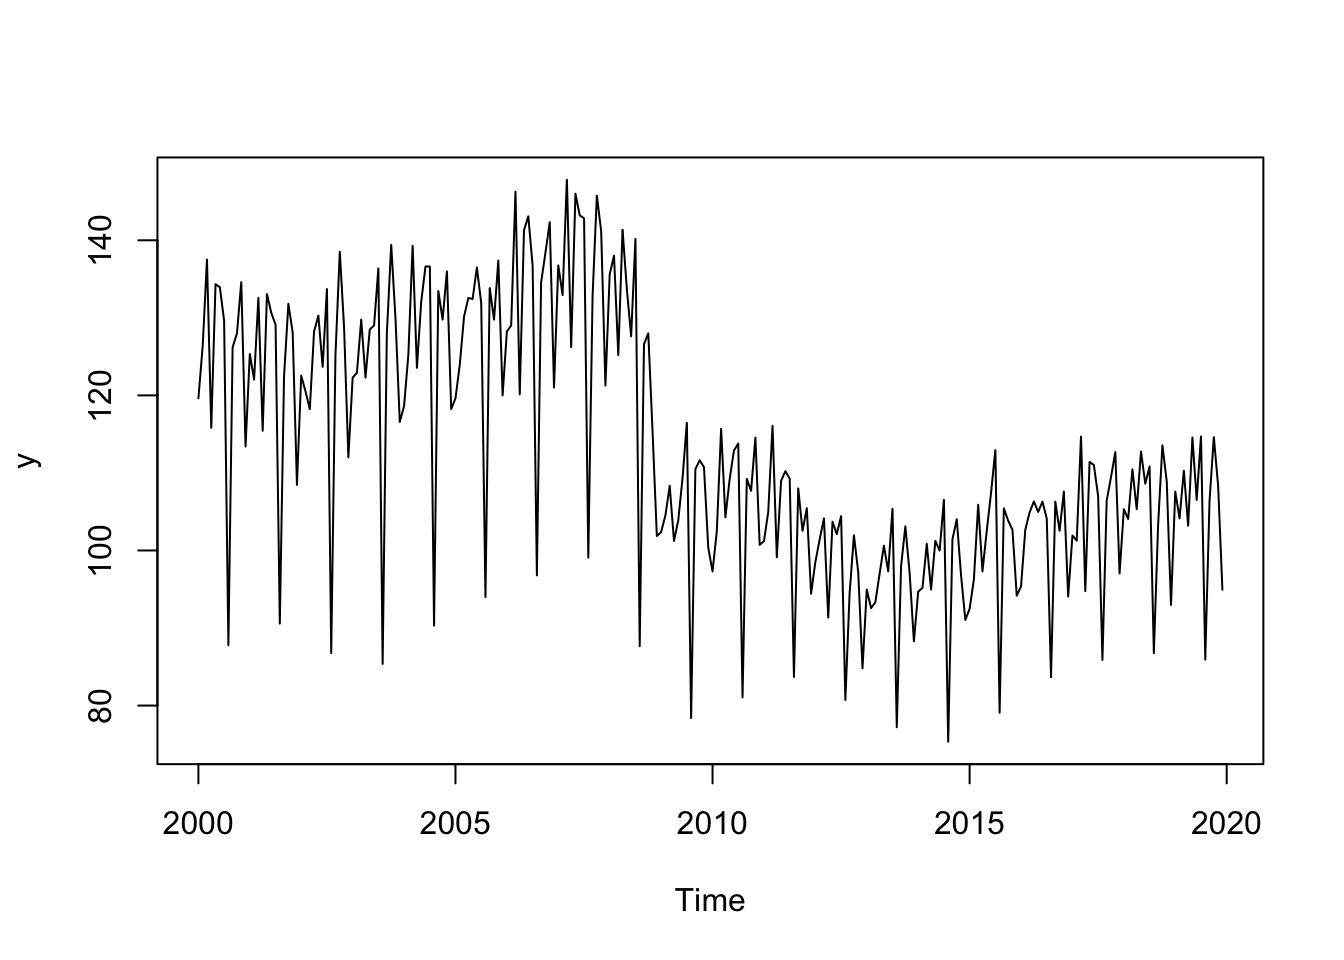
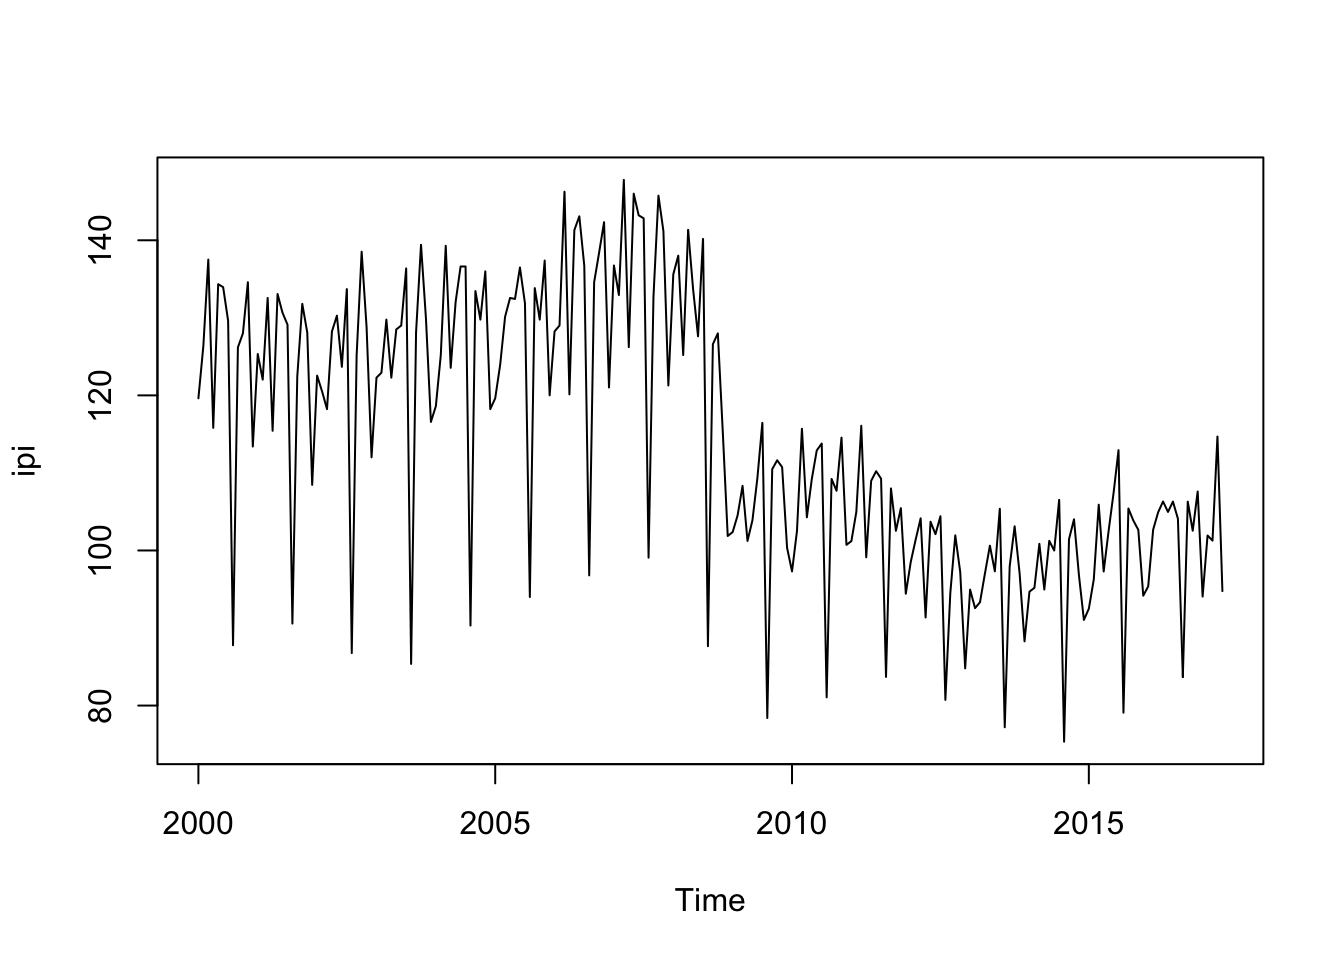
New commit

diff --git a/index.html b/index.html
@@ -291,45 +291,59 @@ $(document).ready(function () {
 </div>
 
 
-<p>Here I am showing some examples run with package <strong>UComp</strong>.</p>
-<p>First, just load the library and some data (monthly Spanish industrial production index) from January 2000 to December 2019.</p>
+<p>Here there are some examples run with package <strong>UComp</strong>, for the automatic modelling of Unobserved Components models <em>a la</em> Harvey (1989). The absolute novelty of this package is that it provides an automatic identification of UC models, though particular models may be estimated, if desired. The package also perform outlier detection, may identify cycles of period longer than one year and allows for models with exogenous inputs.</p>
+<p>The library is composed of just a few functions to perform a comprehensive analysis of time series:</p>
+<ul>
+<li>UC: runs everything</li>
+<li>UCsetup: creates <strong>UComp</strong> objects</li>
+<li>UCmodel: runs UCsetup, estimates/identifies model and produce forecasts</li>
+<li>UCvalidate: runs diagnositics checks and show estimation table</li>
+<li>UCfilter: filters the data and computes states and their covariance matrices</li>
+<li>UCsmooth: as UCfilter, but smoothing the data</li>
+<li>UCdisturb: runs the disturbance smoother</li>
+<li>UCcomponents: estimate components (trend, seasonal, irregular, etc.)</li>
+</ul>
+<p>The inputs to UC, UCsetup and UCmodel are the same and control how the rest of functions work (check the manual and examples below).</p>
+<p>Now, the examples. First, just load the library and some data (monthly Spanish industrial production index) from January 2000 to December 2019. the last year of data is reserved to check forecasting performance.</p>
 <pre class="r"><code>library(UComp)</code></pre>
 <pre><code>## Loading required package: Rcpp</code></pre>
-<pre class="r"><code>load(&quot;ipi.Rdata&quot;)
-plot(y)</code></pre>
+<pre class="r"><code>library(ggplot2)
+load(&quot;ipi.Rdata&quot;)
+ipi = ts(y[1 : 208], start = 2000, frequency = 12)
+plot(ipi)</code></pre>
 <p><img src="index_files/figure-html/unnamed-chunk-1-1.png" width="672" /></p>
-<p>Probably the easiest way to play with <strong>UComp</strong> is by running just function UC, it creates and does all the typical operations of unobserved components modeling with just one function call. For example, the next code show how to plot the estimated components.</p>
-<pre class="r"><code>m = UC(log(y))</code></pre>
+<p>The call could be as simple as the next to estimate the optimal model and plot the components. The output shows the estimated models with their information criteria values and the table with the estimates and some diagnostics tests.</p>
+<pre class="r"><code>m = UC(log(ipi))</code></pre>
 <pre><code>## ------------------------------------------------------------
 ##  Identification started WITHOUT outlier detection
 ## ------------------------------------------------------------
 ##           Model                       AIC      BIC     AICc
 ## ------------------------------------------------------------
-##        none/none/none/arma(0,0):  -0.9232  -0.9087  -0.9232
-##            none/none/equal/none:   1.0874   1.2614   1.0916
-##       none/none/equal/arma(0,0):  -0.8757  -0.6872  -0.8716
-##        none/none/different/none:  -1.2915  -1.0450  -1.2832
-##   none/none/different/arma(0,0):   0.3040   0.5650   0.3165
-##               rw/none/none/none:  -0.9093  -0.8948  -0.9093
-##          rw/none/none/arma(0,0):  -1.5781  -1.5491  -1.5781
-##              rw/none/equal/none:  -2.7012  -2.5127  -2.6971
-##         rw/none/equal/arma(0,0):  -2.8941  -2.6910  -2.8899
-##          rw/none/different/none:  -2.9335  -2.6724  -2.9210
-##     rw/none/different/arma(0,0):  -2.9660  -2.6905  -2.9535
-##              llt/none/none/none:  -0.8541  -0.8106  -0.8541
-##         llt/none/none/arma(0,0):  -1.5105  -1.4525  -1.5105
-##             llt/none/equal/none:  -2.6304  -2.4128  -2.6220
-##        llt/none/equal/arma(0,0):  -2.7279  -2.4958  -2.7195
-##         llt/none/different/none:  -2.8612  -2.5712  -2.8487
-##    llt/none/different/arma(0,0):  -2.8979  -2.5934  -2.8813
-##               dt/none/none/none:  -0.8775  -0.8340  -0.8775
-##          dt/none/none/arma(0,0):  -1.5390  -1.4810  -1.5390
-##              dt/none/equal/none:  -2.6771  -2.4596  -2.6688
-##         dt/none/equal/arma(0,0):  -2.7931  -2.5611  -2.7848
-##          dt/none/different/none:  -2.8835  -2.5934  -2.8710
-##     dt/none/different/arma(0,0):  -2.9496  -2.6450  -2.9329
+##        none/none/none/arma(0,0):  -0.8407  -0.8247  -0.8407
+##            none/none/equal/none:   1.2222   1.4147   1.2270
+##       none/none/equal/arma(0,0):  -0.7102  -0.5016  -0.7054
+##        none/none/different/none:  -1.1573  -0.8845  -1.1429
+##   none/none/different/arma(0,0):   0.4555   0.7444   0.4700
+##               rw/none/none/none:  -0.8572  -0.8412  -0.8572
+##          rw/none/none/arma(0,0):  -1.5203  -1.4882  -1.5203
+##              rw/none/equal/none:  -2.5545  -2.3459  -2.5497
+##         rw/none/equal/arma(0,0):  -2.7475  -2.5229  -2.7379
+##          rw/none/different/none:  -2.7614  -2.4726  -2.7470
+##     rw/none/different/arma(0,0):  -2.7822  -2.4773  -2.7630
+##              llt/none/none/none:  -0.7945  -0.7464  -0.7945
+##         llt/none/none/arma(0,0):  -1.4430  -1.3788  -1.4430
+##             llt/none/equal/none:  -2.4688  -2.2281  -2.4591
+##        llt/none/equal/arma(0,0):  -2.6311  -2.3744  -2.6215
+##         llt/none/different/none:  -2.6807  -2.3598  -2.6615
+##    llt/none/different/arma(0,0):  -2.7040  -2.3670  -2.6847
+##               dt/none/none/none:  -0.8208  -0.7727  -0.8208
+##          dt/none/none/arma(0,0):  -1.4749  -1.4107  -1.4749
+##              dt/none/equal/none:  -2.5232  -2.2825  -2.5136
+##         dt/none/equal/arma(0,0):  -2.6026  -2.3459  -2.5930
+##          dt/none/different/none:  -2.7054  -2.3845  -2.6862
+##     dt/none/different/arma(0,0):  -2.7569  -2.4200  -2.7377
 ## ------------------------------------------------------------
-##   Identification time:    1.80694 seconds
+##   Identification time:    1.87189 seconds
 ## ------------------------------------------------------------
 ## -------------------------------------------------------------
 ##   Concentrated Maximum-Likelihood
@@ -340,34 +354,140 @@ plot(y)</code></pre>
 ##  -------------------------------------------------------------
 ##                       Param          |T|    P-value     |Grad| 
 ##  -------------------------------------------------------------
-##         Level:     1.75e-04       0.1970     0.8440   4.28e-06
-##    Seas(12.0):     6.95e-07       1.8166     0.0706   1.25e-05
-##     Seas(6.0):     1.18e-06       1.7048     0.0896   6.83e-06
-##     Seas(4.0):     1.48e-06       1.6277     0.1050   1.61e-05
-##     Seas(3.0):     4.94e-05       0.5815     0.5615   1.66e-05
-##     Seas(2.4):     1.77e-05       0.8862     0.3764   2.61e-06
-##     Seas(2.0):     5.13e-07       1.8893     0.0601   5.09e-06
-##     Irregular:     3.34e-04*         nan        nan        nan
+##         Level:     2.01e-04          nan        nan   4.13e-05
+##    Seas(12.0):     9.03e-07          nan        nan   2.60e-05
+##     Seas(6.0):     1.56e-06          nan        nan   2.36e-05
+##     Seas(4.0):     1.76e-06          nan        nan   2.64e-05
+##     Seas(3.0):     5.32e-05          nan        nan   3.85e-05
+##     Seas(2.4):     2.14e-05          nan        nan   2.99e-05
+##     Seas(2.0):     6.40e-07          nan        nan   2.21e-05
+##     Irregular:     3.45e-04*         nan        nan        nan
 ##  -------------------------------------------------------------
-##    AIC:      -2.9660   BIC:      -2.6905   AICc:      -2.9535
-##             Log-Likelihood:     374.9221
+##    AIC:      -2.7822   BIC:      -2.4773   AICc:      -2.7630
+##             Log-Likelihood:     308.3510
 ##  -------------------------------------------------------------
 ##     Summary statistics:
 ##  -------------------------------------------------------------
 ##          Missing data:      
-##          Q( 1):       1.3210         Q( 4):       6.7459
-##          Q( 8):      14.2919         Q(12):      22.1627
-##    Bera-Jarque:      40.0486       P-value:       0.0000
-##        H(  78):       0.6898       P-value:       0.1031
+##          Q( 1):       0.8665         Q( 4):       4.9369
+##          Q( 8):      11.7859         Q(12):      17.5830
+##    Bera-Jarque:      24.2265       P-value:       0.0000
+##        H(  66):       0.9878       P-value:       0.9605
 ##    Outliers (&gt;2.7 ES):     4
-##          Q( 1):       2.8033         Q( 4):       7.8037
-##          Q( 8):      10.9585         Q(12):      33.8593
-##    Bera-Jarque:       2.1209       P-value:       0.3463
-##        H(  76):       0.7811       P-value:       0.2838
+##          Q( 1):       1.7276         Q( 4):       6.1233
+##          Q( 8):       9.4265         Q(12):      28.7418
+##    Bera-Jarque:       1.0223       P-value:       0.5998
+##        H(  66):       0.8960       P-value:       0.6569
 ##  -------------------------------------------------------------
 ## </code></pre>
 <pre class="r"><code>plot(m$comp)</code></pre>
 <p><img src="index_files/figure-html/unnamed-chunk-2-1.png" width="672" /></p>
+<p>A different call, more complex, would be as follows (just one model is estimated, the forecasting horizon is fixed at 24 months, verbose output is avoided, see the full set of options in the documentation):</p>
+<pre class="r"><code>m = UC(log(ipi), model = &quot;rw/equal/arma(0,0)&quot;, h = 24, verbose = FALSE)</code></pre>
+<pre><code>## -------------------------------------------------------------
+##   Concentrated Maximum-Likelihood
+##   Model: rw/none/equal/arma(0,0)
+##   Periods:  12.0 /  6.0 /  4.0 /  3.0 /  2.4 /  2.0
+##   Q-Newton: Function convergence
+##   (*)  concentrated out parameter
+##  -------------------------------------------------------------
+##                       Param          |T|    P-value     |Grad| 
+##  -------------------------------------------------------------
+##         Level:     1.89e-04          nan        nan   1.05e-05
+##     Seas(All):     8.36e-07          nan        nan   7.08e-06
+##     Irregular:       0.0011*         nan        nan        nan
+##  -------------------------------------------------------------
+##    AIC:      -2.7475   BIC:      -2.5229   AICc:      -2.7379
+##             Log-Likelihood:     299.7431
+##  -------------------------------------------------------------
+##     Summary statistics:
+##  -------------------------------------------------------------
+##          Missing data:      
+##          Q( 1):       6.4970         Q( 4):      27.1963
+##          Q( 8):      41.5867         Q(12):      73.1916
+##    Bera-Jarque:       6.8197       P-value:       0.0330
+##        H(  66):       0.9540       P-value:       0.8488
+##    Outliers (&gt;2.7 ES):     4
+##          Q( 1):       8.1112         Q( 4):      19.7049
+##          Q( 8):      27.2471         Q(12):      76.9467
+##    Bera-Jarque:       0.4328       P-value:       0.8054
+##        H(  66):       0.8748       P-value:       0.5883
+##  -------------------------------------------------------------
+## </code></pre>
+<p>Something that is very interesting in this case is the estimation with Easter and calendar effects (already loaded in matrix u) and with outlier detection:</p>
+<pre class="r"><code>m = UC(log(ipi), u = u, outlier = 4)</code></pre>
+<pre><code>## ------------------------------------------------------------
+##  Identification started WITH outlier detection
+## ------------------------------------------------------------
+##           Model                       AIC      BIC     AICc
+## ------------------------------------------------------------
+##        none/none/none/arma(0,0):   5.8721   5.9041   5.8721
+##            none/none/equal/none:   7.5297   7.7383   7.5345
+##       none/none/equal/arma(0,0):  -0.6501  -0.4094  -0.6405
+##        none/none/different/none:  -1.3761  -1.0713  -1.3569
+##   none/none/different/arma(0,0):   0.5289   0.8498   0.5481
+##               rw/none/none/none:   4.3441   4.3922   4.3441
+##          rw/none/none/arma(0,0):  -1.8637  -1.6551  -1.8588
+##              rw/none/equal/none:  -3.8845  -3.6277  -3.8749
+##         rw/none/equal/arma(0,0):  -3.9097  -3.6369  -3.8953
+##          rw/none/different/none:  -3.8561  -3.5191  -3.8369
+##     rw/none/different/arma(0,0):  -3.8736  -3.5206  -3.8496
+##              llt/none/none/none:  -0.7858  -0.7056  -0.7858
+##         llt/none/none/arma(0,0):  -1.8302  -1.5734  -1.8206
+##             llt/none/equal/none:  -3.7546  -3.4818  -3.7402
+##        llt/none/equal/arma(0,0):  -3.7761  -3.4713  -3.7569
+##         llt/none/different/none:  -3.7241  -3.3711  -3.7000
+##    llt/none/different/arma(0,0):  -3.7274  -3.3423  -3.6985
+##               dt/none/none/none:  -0.8115  -0.7313  -0.8115
+##          dt/none/none/arma(0,0):  -1.7716  -1.5469  -1.7619
+##              dt/none/equal/none:  -3.8292  -3.5404  -3.8148
+##         dt/none/equal/arma(0,0):  -3.8546  -3.5497  -3.8353
+##          dt/none/different/none:  -3.8007  -3.4317  -3.7719
+##     dt/none/different/arma(0,0):  -3.8254  -3.4403  -3.7966
+## ------------------------------------------------------------
+##   Identification time:   10.67629 seconds
+## ------------------------------------------------------------
+## -------------------------------------------------------------
+##   Concentrated Maximum-Likelihood
+##   Model: rw/none/equal/arma(0,0) + inputs
+##   Periods:  12.0 /  6.0 /  4.0 /  3.0 /  2.4 /  2.0
+##   Q-Newton: Function convergence
+##   (*)  concentrated out parameter
+##  -------------------------------------------------------------
+##                       Param          |T|    P-value     |Grad| 
+##  -------------------------------------------------------------
+##         Level:     1.20e-04*         nan        nan        nan
+##     Seas(All):     1.21e-06       9.9135     0.0000   1.25e-05
+##     Irregular:     8.15e-05       0.7123     0.4771   1.66e-05
+##       Beta(1):      -0.0807      16.3866     0.0000   0.00e+00
+##       Beta(2):       0.0080      21.0155     0.0000   0.00e+00
+##         LS108:      -0.1008       5.6277     0.0000   0.00e+00
+##  -------------------------------------------------------------
+##    AIC:      -3.9097   BIC:      -3.6369   AICc:      -3.8953
+##             Log-Likelihood:     423.6118
+##  -------------------------------------------------------------
+##     Summary statistics:
+##  -------------------------------------------------------------
+##          Missing data:      
+##          Q( 1):       0.0714         Q( 4):       0.8036
+##          Q( 8):       7.5238         Q(12):       9.9888
+##    Bera-Jarque:       4.1827       P-value:       0.1235
+##        H(  66):       0.9586       P-value:       0.8641
+##    Outliers (&gt;2.7 ES):     3
+##          Q( 1):       0.2998         Q( 4):       1.6344
+##          Q( 8):       6.1335         Q(12):       8.7076
+##    Bera-Jarque:       0.1979       P-value:       0.9058
+##        H(  66):       0.9586       P-value:       0.8641
+##  -------------------------------------------------------------
+## </code></pre>
+<pre class="r"><code>plot(m$comp)</code></pre>
+<p><img src="index_files/figure-html/unnamed-chunk-4-1.png" width="672" /></p>
+<p><em>Beta(1)</em> and <em>Beta(2)</em> are the parameter estimates for Easter and the calendar effects and there is one oulier detected in observations 108 as a level shift.</p>
+<p>Finally, forecasts and their variances are stored in fields yFor and yForV, respectively. The following plot shows forecasts and their 95% confidence bands.</p>
+<pre class="r"><code>plot(m$yFor, ylim = c(4.3, 4.85))
+lines(m$yFor + 2 * sqrt(m$yForV), col = &quot;red&quot;)
+lines(m$yFor - 2 * sqrt(m$yForV), col = &quot;red&quot;)</code></pre>
+<p><img src="index_files/figure-html/unnamed-chunk-5-1.png" width="672" /></p>
 
 
 
